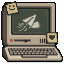
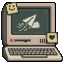
Minor pixel art improvement and and scaling

diff --git a/style.css b/style.css
@@ -2387,8 +2387,8 @@ textarea { min-height: 8.5rem; resize: vertical; }
 }
 
 .win2k-monitor-icon {
-    width: 8rem;
-    height: auto;
+    width: 12rem;
+    height: 12rem;
     image-rendering: pixelated;
     image-rendering: crisp-edges;
 }
